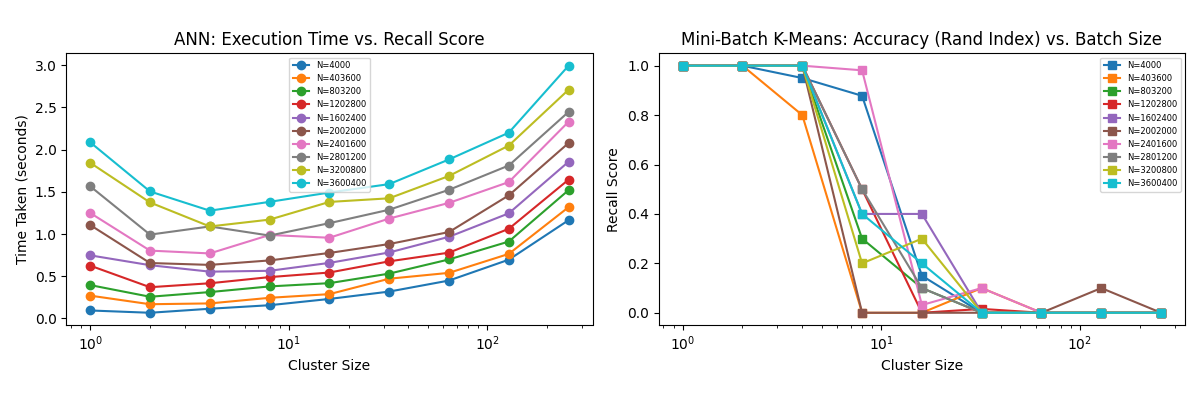
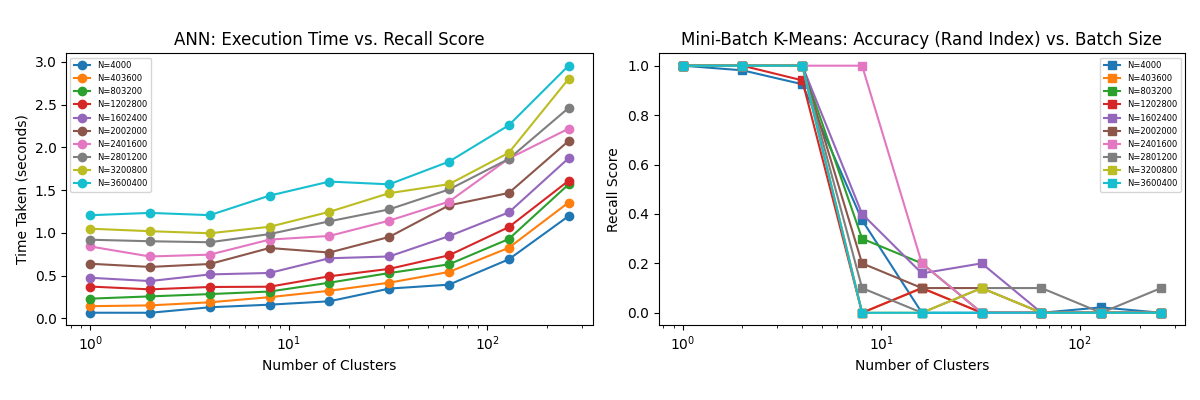
new graphs

diff --git a/ann.py b/ann.py
@@ -84,7 +84,7 @@ def knn(q_cpu, p_cpu, k, distance_fn=euclidean_distance, batch_size=10_000_00):
     for start_idx in tqdm(range(0, n_q, q_batch_size)):
         end_idx = min(start_idx + batch_size, n_q)
         q_gpu = cp.asarray(q_cpu[start_idx:end_idx])
-        batch_distances, batch_indices = overall_knn(q_gpu, p_cpu, k, distance_fn, p_batch_size)
+        batch_distances, batch_indices = overall_knn(q_gpu, p_cpu, k, distance_fn, 1_000_000)
         indices[start_idx:end_idx] = cp.asnumpy(batch_indices)
         distances[start_idx:end_idx] = cp.asnumpy(batch_distances)
     return indices, distances
@@ -93,7 +93,7 @@ def initialize_centers(data, k):
     idx = np.random.choice(len(data), size=k, replace=False)
     return cp.asarray(data[idx])
 
-def assign_labels(data, centers, batch_size=1_000_0):
+def assign_labels(data, centers, batch_size=1_000_00):
     # preallocate labels
     labels = np.empty(data.shape[0])   
     for start_idx in tqdm(range(0, data.shape[0], batch_size)):
@@ -216,13 +216,13 @@ def benchmark_ann(Ns, Ds, K, Q, distance_fn):
     ax1.set_ylabel('Time Taken (seconds)')
     ax1.set_title('ANN: Execution Time vs. Recall Score')
     ax2 = axes[1]
-    ax2.set_xlabel('Cluster Size')
+    ax2.set_xlabel('Number of Clusters')
     ax2.set_ylabel('Recall Score')
     # ax2.set_ylim(0, 1.05) # Optional: Set limits if Rand Index is always 0-1
     ax2.set_title('Mini-Batch K-Means: Accuracy (Rand Index) vs. Batch Size')
     ax2.set_xscale('log')
     ax1.set_xscale('log')
-    ax1.set_xlabel('Cluster Size')
+    ax1.set_xlabel('Number of Clusters')
     # Adjust layout to prevent overlapping titles/labels
     fig.tight_layout(rect=[0, 0.03, 1, 0.96]) # Adjust rect to make space for suptitle
 
